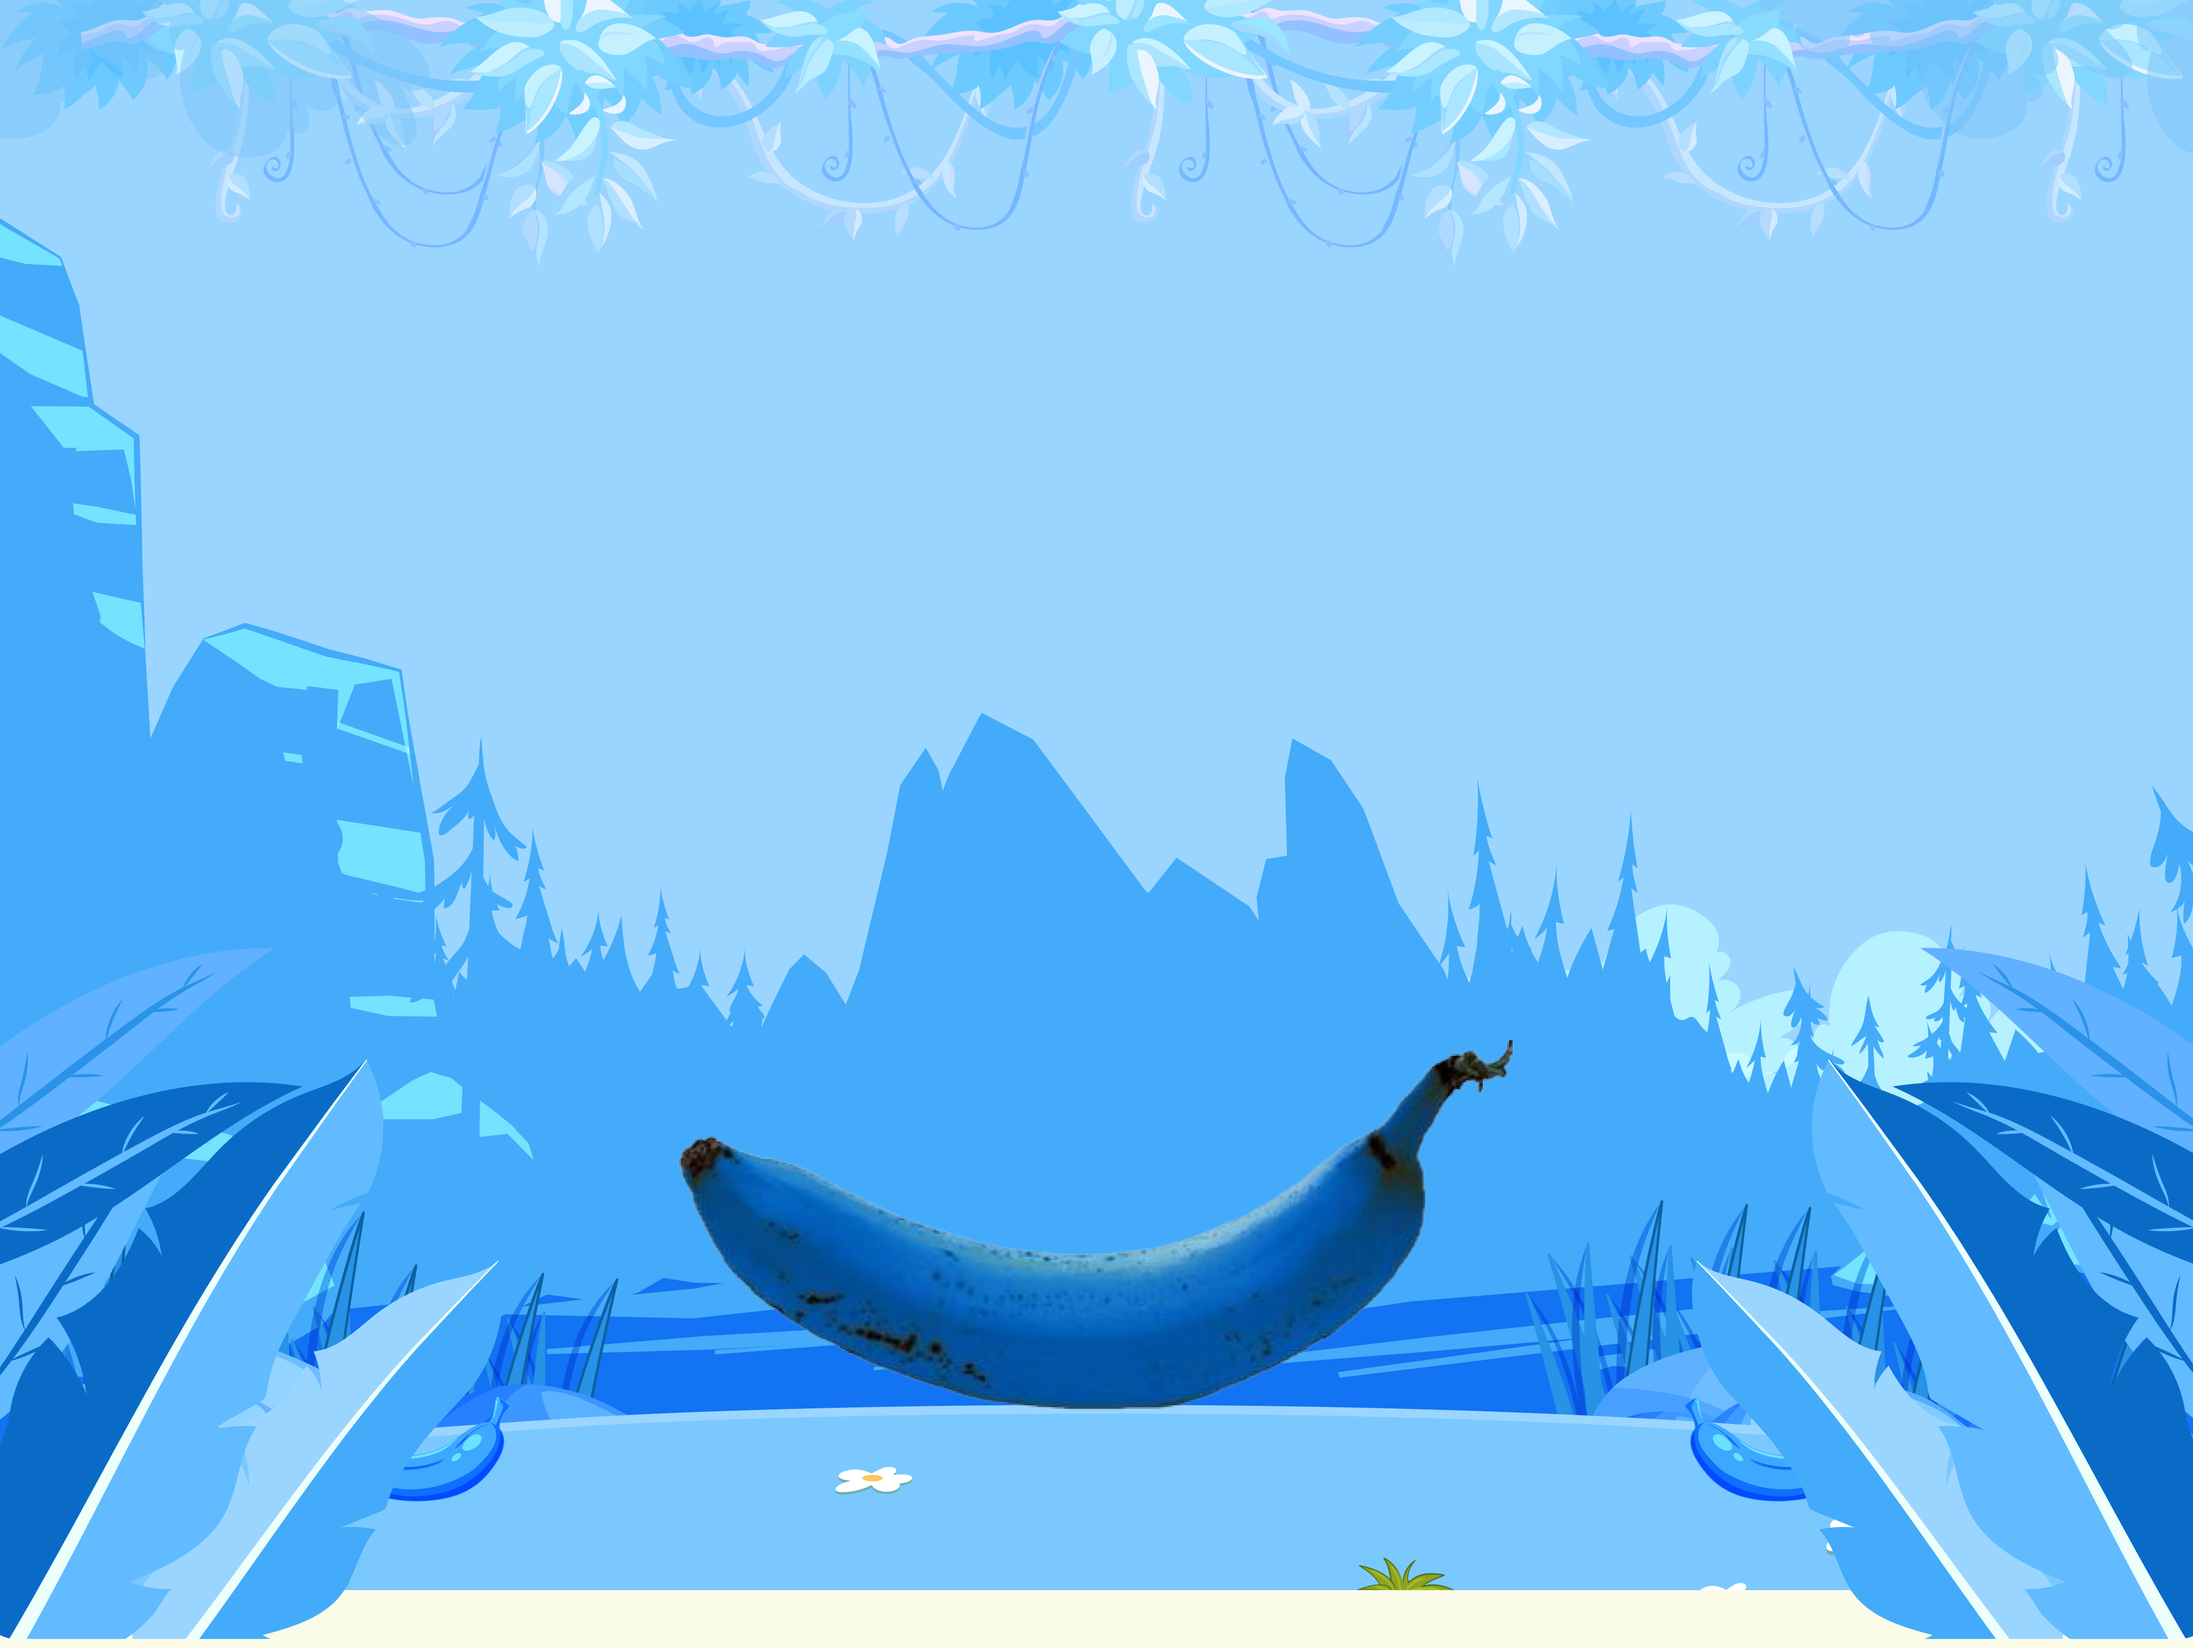
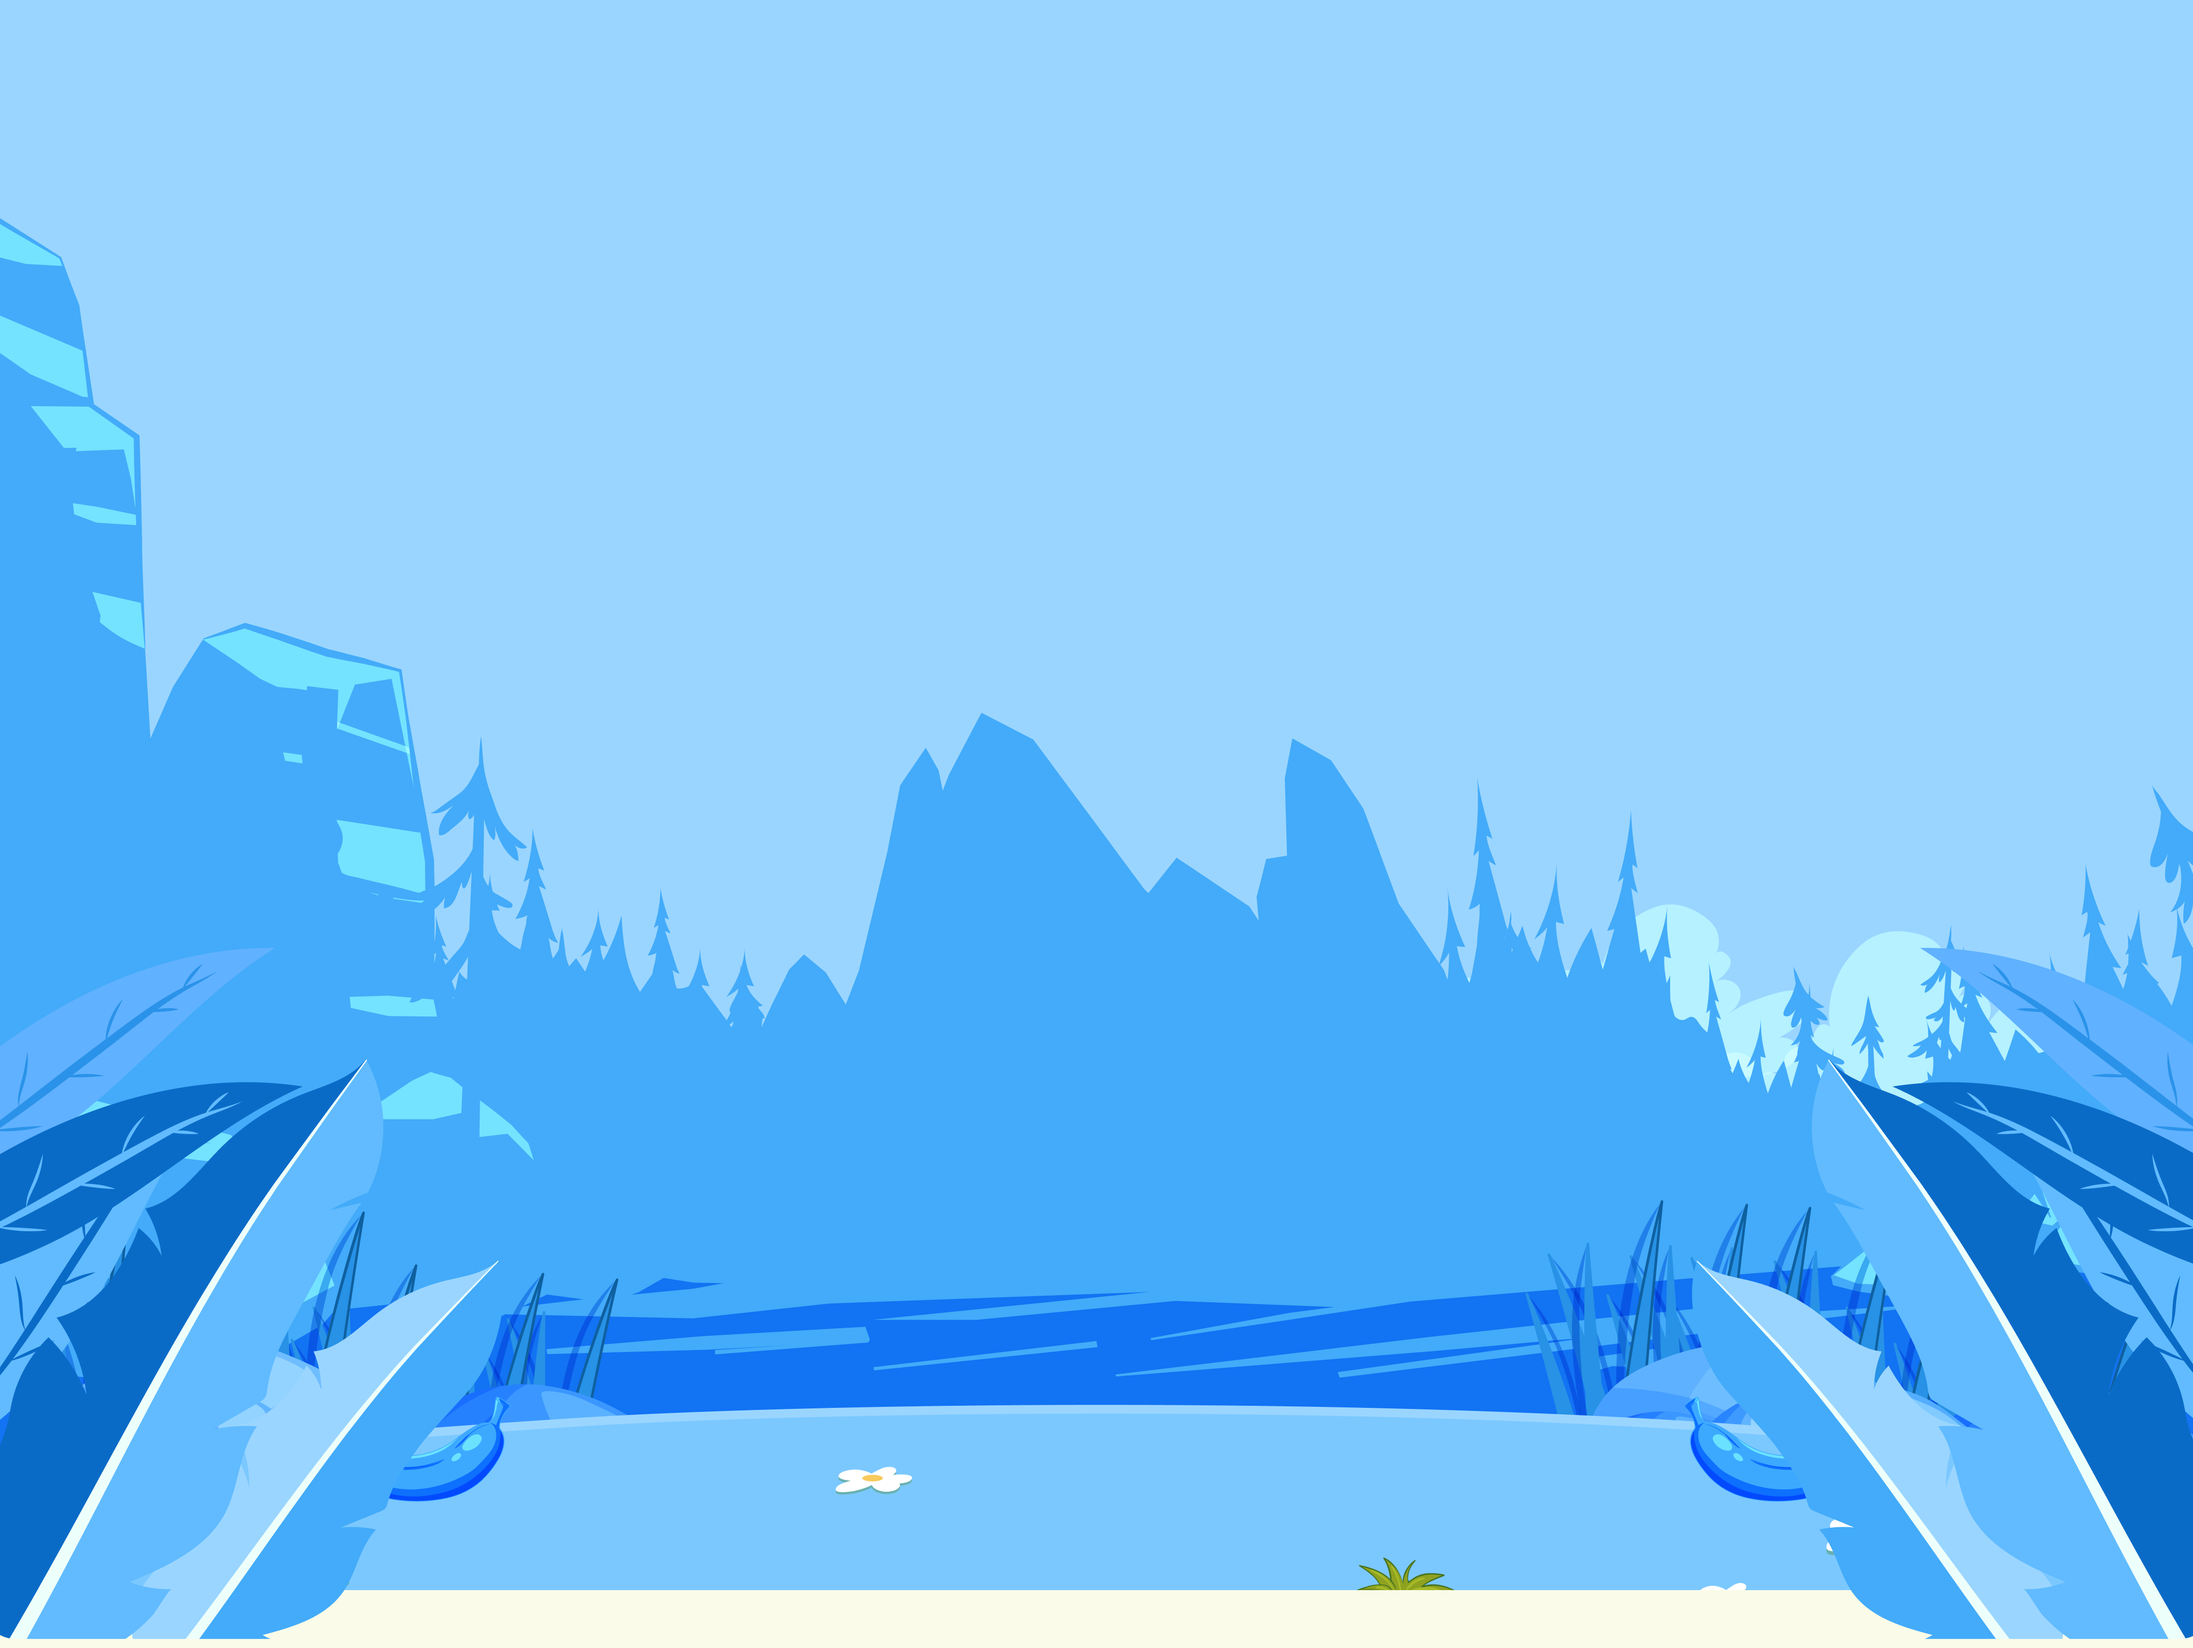
fixing working

Changed region(s): [[0.0, 0.0, 1.0, 0.1556], [0.3125, 0.6223, 0.6875, 0.8712], [0.0938, 0.0933, 0.125, 0.1245]]

diff --git a/src/assets/scss/_base.scss b/src/assets/scss/_base.scss
@@ -43,18 +43,6 @@ a {
 // social 
 .social {
     &-link {
-        --width: 56px;
-        width: var(--width);
-        height: var(--width);
-        border-radius: 6px;
-        color: $black;
-        font-size: 24px;
-        background-color: #00C2FD;
-        box-shadow: 2.672px 2.672px 0px 0px rgba(0, 0, 0, 0.30), 2.672px 2.672px 0px 1.781px rgba(255, 255, 255, 0.28) inset;
-
-        &:hover {
-            box-shadow: 0 0 0;
-        }
 
         @include sm {
             --width: 38px;
@@ -65,6 +53,7 @@ a {
             }
         }
     }
+    
 }
 
 #root {
@@ -81,7 +70,7 @@ a {
     border-radius: 12px;
     border: 1.599px solid #000;
     background: #5DB7FF;
-    padding: 19px;
+    padding: 11px 19px;
     margin-top: 30px;
 
     @include md {
@@ -149,16 +138,19 @@ a {
         }
     }
 }
-.marquee-area{
+
+.marquee-area {
     position: absolute;
     left: 0;
     bottom: 0;
     width: 100%;
-    .brnshap{
+
+    .brnshap {
         width: 100%;
         margin-bottom: -12px;
     }
 }
+
 .common {
     &-marquee {
         border: 2px solid #1581E0;
@@ -168,6 +160,14 @@ a {
 
         .single-item {
             margin-right: 32px;
+
+            img {
+                max-width: 265px;
+
+                @include sm {
+                    max-width: 200px;
+                }
+            }
         }
     }
 }

diff --git a/src/assets/scss/_banner.scss b/src/assets/scss/_banner.scss
@@ -6,16 +6,16 @@
     background-size: 100% 100%;
     background-position: top center;
     padding-top: 260px;
-    padding-bottom: 347px;
+    padding-bottom: 130px;
 
     @include sm {
         padding-top: 130px;
-        padding-bottom: 180px;
+        padding-bottom: 100px;
     }
 
     @include ssm {
         padding-top: 110px;
-        padding-bottom: 100px;
+        padding-bottom: 0px;
         height: 100vh;
     }
 
@@ -112,6 +112,20 @@
                 font-size: 16px;
                 max-width: 500px;
                 margin-top: 15px;
+            }
+        }
+
+        img {
+            max-width: 550px;
+            margin-inline: auto;
+            margin-top: 20px;
+
+            @include mmd {
+                max-width: 400px;
+            }
+
+            @include sm {
+                max-width: 300px;
             }
         }
     }

diff --git a/src/assets/scss/_header.scss b/src/assets/scss/_header.scss
@@ -73,6 +73,9 @@
             gap: 15px;
 
             a {
+                --width: 56px;
+                width: var(--width);
+                height: var(--width);
                 display: flex;
                 align-items: center;
                 justify-content: center;
@@ -82,6 +85,13 @@
                 box-shadow: 1.95px 1.95px 0px 0px #000;
                 color: $white;
                 font-size: 28px;
+                transition: all .3s ease-in-out;
+
+                &:hover {
+                    box-shadow: 1.95px 1.95px 0px 0px #fff;
+                    transform: translateY(-3px);
+
+                }
 
                 @include sm {
                     border-radius: 4px;

diff --git a/src/components/Banner.jsx b/src/components/Banner.jsx
@@ -1,6 +1,7 @@
 import React from 'react'
 import Token from './Token'
 import PageMarquee from './PageMarquee'
+import banana from "../assets/img/banana.png"
 export default function Banner() {
   return (
     <div className='banner'>
@@ -9,6 +10,7 @@ export default function Banner() {
           <h1>UNPEEL THE FUTURE: <span>IT'S BLUE BANANA!</span></h1>
           <p>This is a rare blue banana. Hodl and you’ll become a bananillionaire. Ignore, and you’ll fail forever.</p>
           <Token />
+          <img src={banana} alt="" />
         </div>
       </div>
       <PageMarquee />
